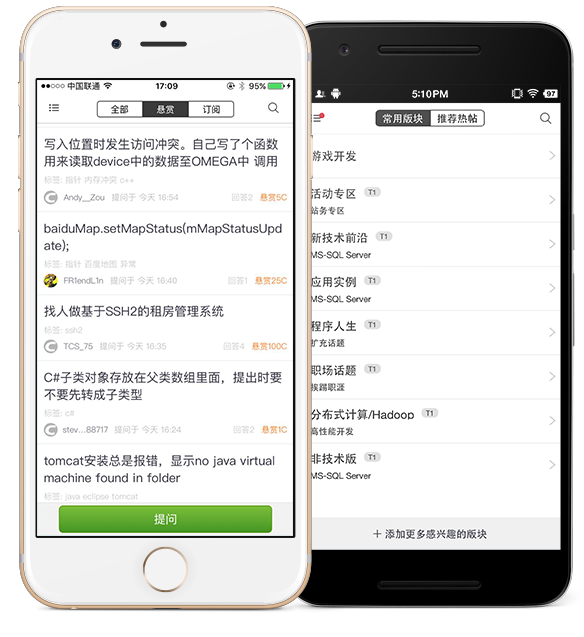
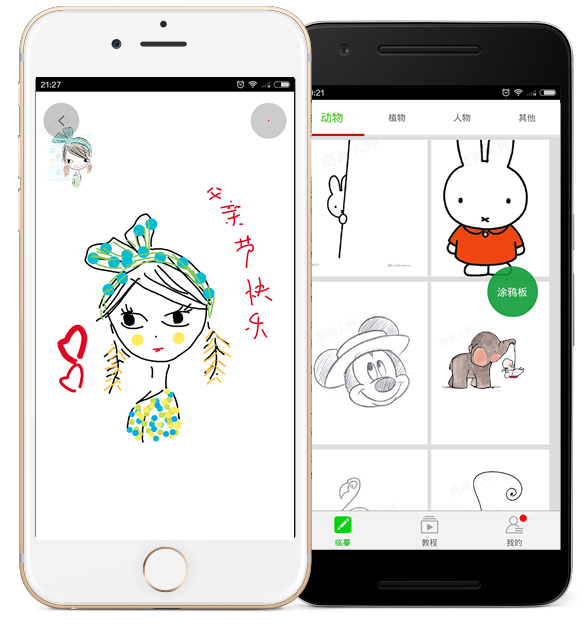
update

Changed region(s): [[0.0616, 0.1193, 0.9863, 0.865], [0.4007, 0.6562, 0.4932, 0.686]]

diff --git a/app/index.html b/app/index.html
@@ -3,7 +3,7 @@
 <head>
 <meta charset="utf-8">
 <meta name="viewport" content="width=device-width, initial-scale=1.0">
-<title>CSDN移动客户端-技术连接你我</title>
+<title>简画大师-有笔格</title>
 <link rel="stylesheet" href="css/jquery.fullPage.css">
 <style>
 .section {font-family:"Microsoft Yahei"; color: #2b2f3e;}
@@ -68,16 +68,16 @@ window.location = 'wap.html';
 				<div class="left_img">
 					<ul>
 						<li class="num1">
-							<p>程序员关心的<em>头条</em></p>
-							<span>随时随地 评论点赞</span>
+							<p>微博分享之<em>哇晒</em></p>
+							<span>随时随地 评论转发</span>
 						</li>
 						<li class="num2">
-							<p><em>技术博客</em>轻松阅读</p>
-							<span>将你熟悉的那个博客 放进口袋 </span>
+							<p><em>优秀作品</em>临摹</p>
+							<span>不会画也没关系，模仿开始 </span>
 						</li>
 						<li class="num3">
-							<p><em>秒杀</em>一切技术难题 </p>
-							<span>再麻烦的问题 这儿总有人知道怎么解决 </span>
+							<p><em>涂鸦板</em>随心画 </p>
+							<span>想怎么画就怎么画 </span>
 						</li>
 					</ul>
 				</div>
@@ -88,7 +88,7 @@ window.location = 'wap.html';
 	<div class="section scrollPage3">
 		<div class="pageWarp">
 			<div class="imgAbsolut">
-				<h3>移动一小步  视界大不同</h3>
+				<h3>简画大师  有笔格</h3>
 				<i class="logo"></i>
 				<i class="wx"></i>
 				<div class="clear"></div>
